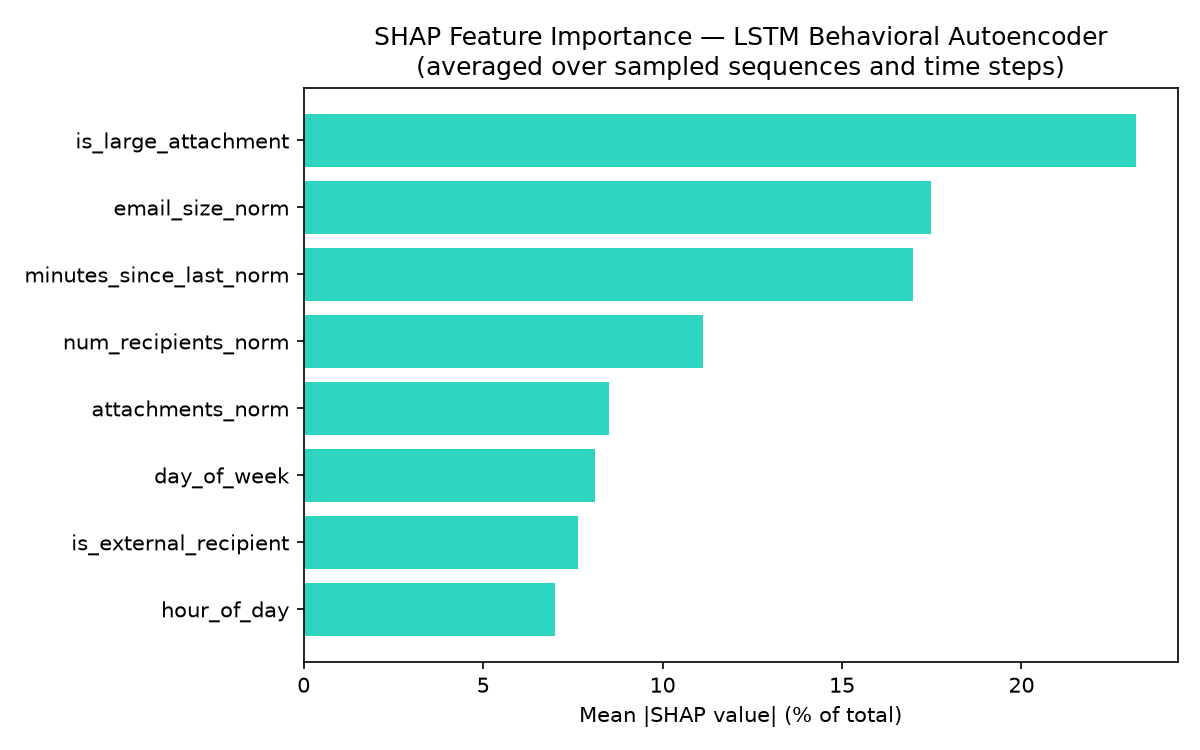
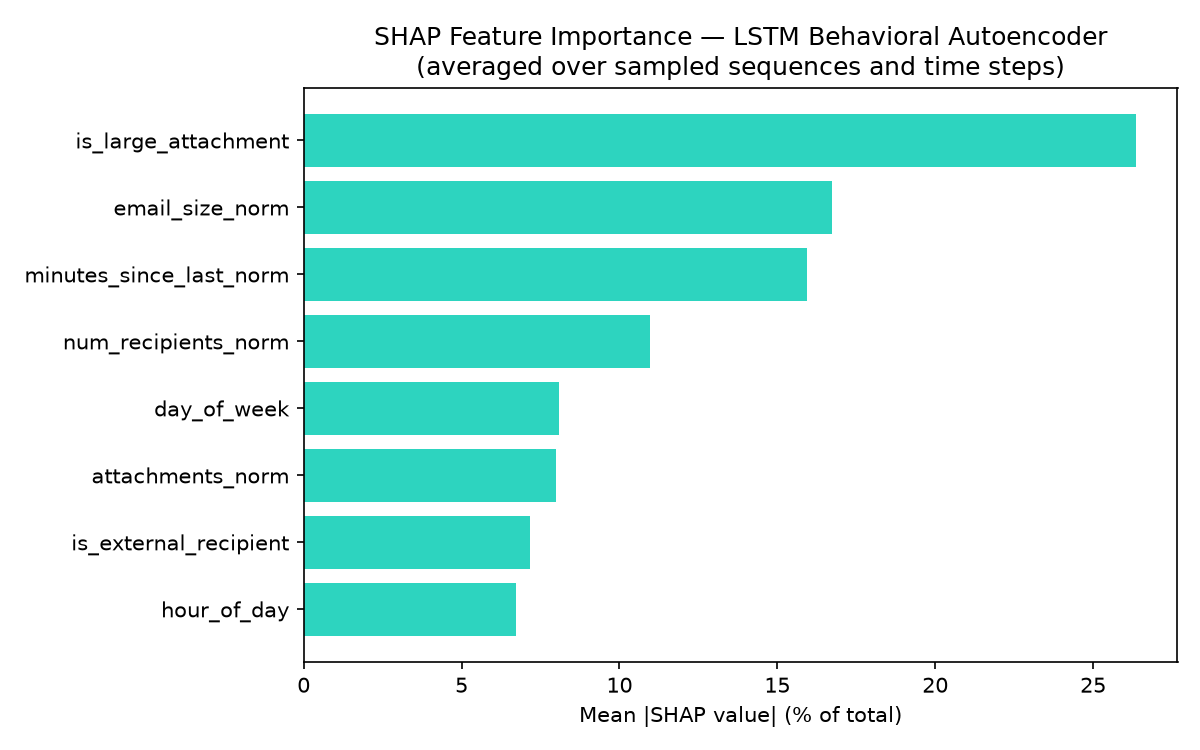
re-running the LSTM SHAP validation

diff --git a/dashboard.html b/dashboard.html
@@ -727,6 +727,7 @@
       <nav id="navList">
         <div class="nav-item active" data-tab="overview"><span class="nav-icon">◆</span>Overview</div>
         <div class="nav-item" data-tab="threats"><span class="nav-icon">▲</span>Threats</div>
+        <div class="nav-item" data-tab="cases"><span class="nav-icon">▦</span>Cases</div>
         <div class="nav-item" data-tab="fraud"><span class="nav-icon">$</span>Fraud Detection</div>
         <div class="nav-item" data-tab="user-behavior"><span class="nav-icon">◉</span>User Behavior</div>
         <div class="nav-item" data-tab="admin-activity"><span class="nav-icon">▣</span>Admin Activity</div>
@@ -867,6 +868,47 @@
             <thead><tr><th>Last Seen</th><th>Count</th><th>IP</th><th>Event Type</th><th>Severity</th><th>Risk Score</th><th>Priority</th><th>Status</th><th>Reason</th></tr></thead>
             <tbody id="threatsBody"><tr class="loading-row"><td colspan="9">Loading…</td></tr></tbody>
           </table>
+        </div>
+      </div>
+
+      <!-- CASES -->
+      <div class="tab-content" id="tab-cases">
+        <div class="page-header">
+          <div>
+            <div class="page-title">Cases</div>
+            <div class="page-sub">Investigation workflow — group related alerts, assign, and track progress</div>
+          </div>
+          <button class="refresh-btn" onclick="loadCases()">↻ REFRESH</button>
+        </div>
+
+        <div id="casesListView">
+          <div class="panel">
+            <div class="filter-row">
+              <button class="refresh-btn" onclick="showNewCaseForm()">+ NEW CASE</button>
+              <select id="casesStatusFilter" onchange="loadCases()">
+                <option value="">All statuses</option>
+                <option value="open">Open</option>
+                <option value="investigating">Investigating</option>
+                <option value="contained">Contained</option>
+                <option value="closed">Closed</option>
+              </select>
+            </div>
+            <div id="newCaseFormWrap" style="display:none; margin-bottom:16px; padding:14px; background:var(--input-bg); border:1px solid var(--border); border-radius:10px;">
+              <div class="filter-row"><input type="text" id="newCaseTitle" placeholder="Case title…" style="width:100%;"></div>
+              <div class="filter-row"><input type="text" id="newCaseTags" placeholder="Tags, comma separated (optional)" style="width:100%;"></div>
+              <button class="refresh-btn" onclick="submitNewCase()">Create</button>
+              <button class="refresh-btn" onclick="hideNewCaseForm()">Cancel</button>
+            </div>
+            <table>
+              <thead><tr><th>Title</th><th>Status</th><th>Severity</th><th>Alerts</th><th>Assigned</th><th>Updated</th></tr></thead>
+              <tbody id="casesBody"><tr class="loading-row"><td colspan="6">Loading…</td></tr></tbody>
+            </table>
+          </div>
+        </div>
+
+        <div id="caseDetailView" style="display:none;">
+          <button class="refresh-btn" style="margin-bottom:14px;" onclick="closeCaseDetail()">← Back to Cases</button>
+          <div class="panel" id="caseDetailPanel"><p class="lstm-hint">Loading…</p></div>
         </div>
       </div>
 
@@ -1064,6 +1106,7 @@ function loadTabData(tab) {
   switch (tab) {
     case 'overview': loadOverview(); break;
     case 'threats': loadThreats(); break;
+    case 'cases': loadCases(); break;
     case 'fraud': loadFraud(); break;
     case 'user-behavior': loadUserBehavior(); break;
     case 'admin-activity': loadAdminActivity(); break;
@@ -1594,7 +1637,22 @@ function renderStatusCell(row, isGrouped) {
   const statuses = ['new', 'investigating', 'resolved', 'false_positive'];
   const current = row.status || 'new';
   const options = statuses.map(s => `<option value="${s}" ${s === current ? 'selected' : ''}>${statusLabel(s)}</option>`).join('');
-  return `<select class="status-select" onchange="updateAlertStatus('${row._id}', this.value)">${options}</select>`;
+  return `<select class="status-select" onchange="updateAlertStatus('${row._id}', this.value)">${options}</select>
+    <button class="refresh-btn" style="padding:3px 8px; font-size:9px; margin-left:4px;" title="Create a case from this alert" onclick="createCaseFromAlert('${row._id}')">+Case</button>`;
+}
+async function createCaseFromAlert(alertId) {
+  const title = prompt('Case title:');
+  if (!title || !title.trim()) return;
+  try {
+    const res = await fetch(`${API_BASE}/cases`, {
+      method: 'POST', headers: { 'Content-Type': 'application/json' },
+      body: JSON.stringify({ title: title.trim(), alert_ids: [alertId] }),
+    });
+    if (!res.ok) throw new Error(`Request failed: ${res.status}`);
+    alert(`Case "${title.trim()}" created — see the Cases tab.`);
+  } catch (e) {
+    alert(`Couldn't create case: ${e.message}`);
+  }
 }
 function statusLabel(s) {
   const map = { new: 'New', investigating: 'Investigating', resolved: 'Resolved', false_positive: 'False Positive' };
@@ -1610,6 +1668,223 @@ async function updateAlertStatus(alertId, newStatus) {
   } catch (e) {
     alert(`Couldn't update alert status: ${e.message}`);
     loadThreats();
+  }
+}
+
+// ===== Cases =====
+let casesState = { currentCaseId: null };
+
+function caseStatusBadge(status) {
+  const map = { open: 'high', investigating: 'medium', contained: 'low', closed: 'low' };
+  const cls = map[status] || 'low';
+  return `<span class="badge ${cls}">${(status || '—').replace('_', ' ')}</span>`;
+}
+
+async function loadCases() {
+  const tbody = document.getElementById('casesBody');
+  tbody.innerHTML = '<tr class="loading-row"><td colspan="6">Loading…</td></tr>';
+  const status = document.getElementById('casesStatusFilter').value;
+  const qs = status ? `?status=${status}` : '';
+  try {
+    const data = await apiGet(`/cases${qs}`);
+    const results = data.results || [];
+    if (!results.length) {
+      tbody.innerHTML = emptyRow(6, 'No cases yet', 'Create one above, or use "+Case" on an alert in the Threats tab.');
+      return;
+    }
+    tbody.innerHTML = results.map(c => `
+      <tr style="cursor:pointer;" onclick="openCaseDetail('${c._id}')">
+        <td>${c.title}</td>
+        <td>${caseStatusBadge(c.status)}</td>
+        <td>${severityBadge(c.severity)}</td>
+        <td>${c.alert_count ?? 0}×</td>
+        <td>${c.assigned_to || '—'}</td>
+        <td>${formatFeedTime(c.updated_at)}</td>
+      </tr>`).join('');
+  } catch (e) {
+    tbody.innerHTML = errorRow(6, e.message);
+  }
+}
+
+function showNewCaseForm() { document.getElementById('newCaseFormWrap').style.display = 'block'; }
+function hideNewCaseForm() {
+  document.getElementById('newCaseFormWrap').style.display = 'none';
+  document.getElementById('newCaseTitle').value = '';
+  document.getElementById('newCaseTags').value = '';
+}
+
+async function submitNewCase() {
+  const title = document.getElementById('newCaseTitle').value.trim();
+  if (!title) { alert('Case title is required.'); return; }
+  const tagsRaw = document.getElementById('newCaseTags').value.trim();
+  const tags = tagsRaw ? tagsRaw.split(',').map(t => t.trim()).filter(Boolean) : [];
+  try {
+    const res = await fetch(`${API_BASE}/cases`, {
+      method: 'POST', headers: { 'Content-Type': 'application/json' },
+      body: JSON.stringify({ title, tags }),
+    });
+    if (!res.ok) throw new Error(`Request failed: ${res.status}`);
+    hideNewCaseForm();
+    loadCases();
+  } catch (e) {
+    alert(`Couldn't create case: ${e.message}`);
+  }
+}
+
+async function openCaseDetail(caseId) {
+  casesState.currentCaseId = caseId;
+  document.getElementById('casesListView').style.display = 'none';
+  document.getElementById('caseDetailView').style.display = 'block';
+  await renderCaseDetail();
+}
+
+function closeCaseDetail() {
+  casesState.currentCaseId = null;
+  document.getElementById('caseDetailView').style.display = 'none';
+  document.getElementById('casesListView').style.display = 'block';
+  loadCases();
+}
+
+async function renderCaseDetail() {
+  const panel = document.getElementById('caseDetailPanel');
+  panel.innerHTML = '<p class="lstm-hint">Loading…</p>';
+  try {
+    const [c, suggested] = await Promise.all([
+      apiGet(`/cases/${casesState.currentCaseId}`),
+      apiGet(`/cases/${casesState.currentCaseId}/suggested-alerts`).catch(() => ({ results: [] })),
+    ]);
+
+    const statusOptions = ['open', 'investigating', 'contained', 'closed']
+      .map(s => `<option value="${s}" ${s === c.status ? 'selected' : ''}>${s.replace('_', ' ')}</option>`).join('');
+
+    const alertsRows = (c.alerts || []).length
+      ? c.alerts.map(a => `
+        <tr>
+          <td>${formatFeedTime(a.last_seen || a.timestamp)}</td>
+          <td><code class="inline">${a.ip || '—'}</code></td>
+          <td>${a.event_type || '—'}</td>
+          <td>${severityBadge(a.risk_level)}</td>
+          <td><button class="refresh-btn" style="padding:3px 8px; font-size:9px;" onclick="unlinkAlertFromCase('${a._id}')">Unlink</button></td>
+        </tr>`).join('')
+      : `<tr><td colspan="5" class="lstm-hint" style="padding:14px;">No alerts linked yet.</td></tr>`;
+
+    const suggestedRows = (suggested.results || []).length
+      ? suggested.results.map(a => `
+        <div class="alert-row">
+          <div class="alert-main">
+            <div class="alert-title">${(a.event_type || 'event').replace(/_/g, ' ')} — <code class="inline">${a.ip || '—'}</code></div>
+            <div class="alert-sub">${a.user_id || 'unknown user'} · shares IP/user with this case</div>
+          </div>
+          ${severityBadge(a.risk_level)}
+          <button class="refresh-btn" style="padding:3px 8px; font-size:9px;" onclick="linkAlertToCase('${a._id}')">Link</button>
+        </div>`).join('')
+      : `<p class="lstm-hint">No related open alerts found.</p>`;
+
+    const timelineRows = (c.timeline || []).slice().reverse().map(t => `
+      <div class="alert-row">
+        <div class="alert-main">
+          <div class="alert-title">${t.content}</div>
+          <div class="alert-sub">${t.author} · ${(t.type || '').replace('_', ' ')}</div>
+        </div>
+        <span class="alert-time" style="width:auto;">${formatFeedTime(t.ts)}</span>
+      </div>`).join('') || '<p class="lstm-hint">No activity yet.</p>';
+
+    const entityChips = (c.entity_risk_snapshot || []).length
+      ? c.entity_risk_snapshot.map(e => `<span class="xai-chip">${e.type}:${e.id} <b>${e.risk_score}</b></span>`).join('')
+      : '<span class="lstm-hint">No entity risk history yet.</span>';
+
+    panel.innerHTML = `
+      <div class="panel-title" style="margin-bottom:12px;">
+        <span>${c.title}</span>
+        <span>${severityBadge(c.severity)}</span>
+      </div>
+      <div class="filter-row" style="margin-bottom:18px;">
+        <label class="filter-checkbox">Status:
+          <select class="status-select" onchange="updateCaseField('status', this.value)">${statusOptions}</select>
+        </label>
+        <label class="filter-checkbox">Assigned:
+          <input type="text" id="caseAssignedInput" value="${c.assigned_to || ''}" placeholder="Analyst name" onblur="updateCaseField('assigned_to', this.value)">
+        </label>
+      </div>
+
+      <div class="panel-title">Linked Alerts (${c.alert_count || 0})</div>
+      <table style="margin-bottom:18px;">
+        <thead><tr><th>Last Seen</th><th>IP</th><th>Event Type</th><th>Severity</th><th></th></tr></thead>
+        <tbody>${alertsRows}</tbody>
+      </table>
+
+      <div class="panel-title">Suggested Related Alerts <span class="lstm-user-tag">shares IP/user, not yet linked</span></div>
+      <div style="margin-bottom:18px;">${suggestedRows}</div>
+
+      <div class="panel-title">Entity Risk Snapshot <span class="lstm-user-tag">UEBA</span></div>
+      <div class="xai-chips" style="margin-bottom:18px;">${entityChips}</div>
+
+      <div class="panel-title">Timeline</div>
+      <div style="margin-bottom:14px;">
+        <textarea id="caseNoteInput" placeholder="Add investigation note…" style="width:100%; min-height:60px; background:var(--input-bg); border:1px solid var(--border); color:var(--text); border-radius:8px; padding:8px; font-family:var(--font-sans); font-size:12.5px; resize:vertical;"></textarea>
+        <button class="refresh-btn" style="margin-top:6px;" onclick="submitCaseNote()">Add Note</button>
+      </div>
+      <div id="caseTimelineList">${timelineRows}</div>
+    `;
+  } catch (e) {
+    panel.innerHTML = `<p class="lstm-hint">Couldn't load case: ${e.message}</p>`;
+  }
+}
+
+async function updateCaseField(field, value) {
+  try {
+    const res = await fetch(`${API_BASE}/cases/${casesState.currentCaseId}`, {
+      method: 'PATCH', headers: { 'Content-Type': 'application/json' },
+      body: JSON.stringify({ [field]: value }),
+    });
+    if (!res.ok) throw new Error(`Request failed: ${res.status}`);
+    renderCaseDetail();
+  } catch (e) {
+    alert(`Couldn't update case: ${e.message}`);
+    renderCaseDetail();
+  }
+}
+
+async function linkAlertToCase(alertId) {
+  try {
+    const res = await fetch(`${API_BASE}/cases/${casesState.currentCaseId}/link-alert`, {
+      method: 'POST', headers: { 'Content-Type': 'application/json' },
+      body: JSON.stringify({ alert_id: alertId }),
+    });
+    if (!res.ok) throw new Error(`Request failed: ${res.status}`);
+    renderCaseDetail();
+  } catch (e) {
+    alert(`Couldn't link alert: ${e.message}`);
+  }
+}
+
+async function unlinkAlertFromCase(alertId) {
+  try {
+    const res = await fetch(`${API_BASE}/cases/${casesState.currentCaseId}/unlink-alert`, {
+      method: 'POST', headers: { 'Content-Type': 'application/json' },
+      body: JSON.stringify({ alert_id: alertId }),
+    });
+    if (!res.ok) throw new Error(`Request failed: ${res.status}`);
+    renderCaseDetail();
+  } catch (e) {
+    alert(`Couldn't unlink alert: ${e.message}`);
+  }
+}
+
+async function submitCaseNote() {
+  const input = document.getElementById('caseNoteInput');
+  const content = input.value.trim();
+  if (!content) return;
+  try {
+    const res = await fetch(`${API_BASE}/cases/${casesState.currentCaseId}/notes`, {
+      method: 'POST', headers: { 'Content-Type': 'application/json' },
+      body: JSON.stringify({ content }),
+    });
+    if (!res.ok) throw new Error(`Request failed: ${res.status}`);
+    input.value = '';
+    renderCaseDetail();
+  } catch (e) {
+    alert(`Couldn't add note: ${e.message}`);
   }
 }
 

diff --git a/shap_evaluate_lstm.py b/shap_evaluate_lstm.py
@@ -147,18 +147,67 @@ def main():
     FAST_AGGREGATION = "max"
 
     lstm_inference._load()
+
+    # --- DIAGNOSTIC: sanity-check that _feature_attribution actually
+    # supports/honors aggregation="max" as currently defined in
+    # lstm_inference.py -- this catches the case where the docstring's
+    # claimed fix was never actually applied to the function body, or a
+    # stale .pyc/import is shadowing an older version. ---
+    import inspect
+    src = inspect.getsource(lstm_inference._feature_attribution)
+    print("\n--- _feature_attribution source check ---")
+    print(f"'aggregation == \"max\"' present in source: {'aggregation == \"max\"' in src}")
+    print(f"'.max(dim=1)' present in source: {'.max(dim=1)' in src}")
+    print("------------------------------------------\n")
+
+    # --- DIAGNOSTIC: raw (non-normalized, pre-percentage) per-feature
+    # squared-error magnitude, plus how often is_large_attachment is
+    # actually 1 in the explained sample -- tells us whether the signal
+    # exists in the scaled feature space at all before % normalization
+    # potentially washes it out. ---
+    is_large_idx = feature_names.index("is_large_attachment")
+    raw_max_sq_err = {f_name: [] for f_name in feature_names}
+    hot_count = 0
+
     fast_scores = {f_name: 0.0 for f_name in feature_names}
     with torch.no_grad():
         for i in range(len(X_explain)):
             x_i = X_explain[i:i + 1]
             recon_i = model(x_i)
+
+            sq_err = (x_i - recon_i) ** 2  # (1, T, F), SCALED feature space
+            per_feature_raw = sq_err.max(dim=1).values.squeeze(0).cpu().numpy()
+            for j, f_name in enumerate(feature_names):
+                raw_max_sq_err[f_name].append(float(per_feature_raw[j]))
+
+            # was this sequence's is_large_attachment ever "hot" (raw==1)
+            # at any timestep? Scaled values aren't 0/1 anymore, so check
+            # the unscaled sequence instead.
+            raw_seq = X[explain_idx[i]]  # unscaled (T, F)
+            if (raw_seq[:, is_large_idx] >= 1.0).any():
+                hot_count += 1
+
             attrs = lstm_inference._feature_attribution(
                 x_i, recon_i, top_n=len(feature_names), aggregation=FAST_AGGREGATION
             )
             for a in attrs:
                 fast_scores[a["feature"]] += a["contribution_pct"]
+
     total = sum(fast_scores.values()) or 1e-9
     fast_pct = {f_name: v / total * 100 for f_name, v in fast_scores.items()}
+
+    print("--- Raw max squared-error per feature (scaled space, mean over explained sample) ---")
+    for f_name in feature_names:
+        vals = raw_max_sq_err[f_name]
+        marker = "  <-- is_large_attachment" if f_name == "is_large_attachment" else ""
+        print(f"  {f_name:28s} mean={np.mean(vals):.5f}  max={np.max(vals):.5f}{marker}")
+    print(f"\n  is_large_attachment was 'hot' (>=1 at some timestep, raw/unscaled) "
+          f"in {hot_count}/{len(X_explain)} explained sequences.")
+    if hot_count == 0:
+        print("  ==> is_large_attachment never fires in this sample. Its low fast-method\n"
+              "      score is expected/correct here, not a bug -- re-run with a larger\n"
+              "      EXPLAIN_SIZE or a different random seed to get sequences where it's hot.")
+    print("------------------------------------------------------------------------------------\n")
 
     fast_vals = [fast_pct[f_name] for f_name in feature_names]
     shap_vals = [top_shap[f_name] for f_name in feature_names]
